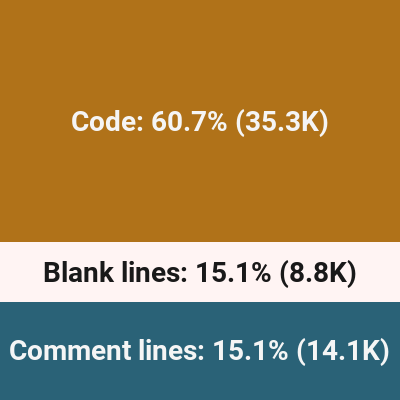
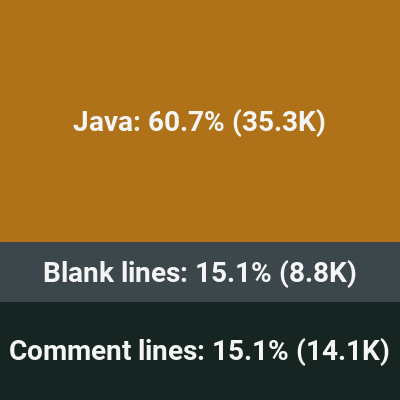
update stat_generator, remove svgs

diff --git a/actions/stat_generator.py b/actions/stat_generator.py
@@ -32,19 +32,19 @@ def export_stats(code_lines, comment_lines, blank_lines, width: str = 400, heigh
     image = cv2.rectangle(outlined_image, (border_thickness, border_thickness),
                           (width - border_thickness, code_height - border_thickness), code_color, -1)
 
-    comment_color = (243, 244, 255)
+    comment_color = (75, 71, 60)
     comment_height = int(height * (blank_percent / 100.0))
     image = cv2.rectangle(image, (border_thickness, code_height - border_thickness),
                           (width - border_thickness, code_height + comment_height), comment_color, -1)
 
-    blank_color = (119, 98, 42)
+    blank_color = (33, 37, 22)
     blank_height = int(height * (comment_percent / 100.0))
     image = cv2.rectangle(image, (border_thickness, code_height + comment_height - border_thickness),
                           (width - border_thickness, height), blank_color, -1)
 
     img_pil = Image.fromarray(image)
     draw = ImageDraw.Draw(img_pil)
-    code_string = "Code: " + str(code_percent) + \
+    code_string = "Java: " + str(code_percent) + \
         "% (" + get_compressed_number(code_lines) + ')'
     w, h = draw.textsize(code_string, font=export_font)
     code_area_center = (width / 2 - w / 2,
@@ -59,7 +59,7 @@ def export_stats(code_lines, comment_lines, blank_lines, width: str = 400, heigh
     blank_area_center = (width / 2 - w / 2,
                          border_thickness + code_height + comment_height / 2 - h / 2)
     draw.text(blank_area_center,  blank_string,
-              font=export_font, fill=(25, 25, 25))
+              font=export_font, fill=(245, 245, 245))
 
     draw = ImageDraw.Draw(img_pil)
     comment_string = "Comment lines: " + str(blank_percent) + \
@@ -79,7 +79,7 @@ def get_compressed_number(num: int) -> str:
     return str(round(num / 1000.0, 1)) + 'K'
 
 
-def export_code_comment_ratio_badge(alpha_string, beta_string, save_name):
+def export_string_badge(alpha_string, beta_string, save_name):
     primary = (131, 83, 5)
     secondary = (199, 147, 85)
 
@@ -232,13 +232,10 @@ if __name__ == '__main__':
         comment_lines = comment_lines + tuple[1]
         blank_lines = blank_lines + tuple[2]
 
-    ratio = code_lines / float(comment_lines)
-    last_updated = "2022-05-30 14:39"
-
     export_stats(code_lines=code_lines, comment_lines=comment_lines,
                  blank_lines=blank_lines, save_name="stats")
 
-    export_code_comment_ratio_badge(
-        "Code comment ratio", "{:.2f}".format(ratio), "code_comment")
-    export_code_comment_ratio_badge(
-        "Last updated", last_updated, "last_updated")
+    export_string_badge(
+        "Cyder", "A Programmer's Swiss Army Knife", "tagline")
+    export_string_badge(
+        "By", "Nate Cheshire", "author")

diff --git a/README.md b/README.md
@@ -1,9 +1,7 @@
 
 <img src="https://user-images.githubusercontent.com/60986919/171057466-8197f0c7-f908-4cb0-8978-deab86a79eac.png" alt="Logo" width="150">
 
-![](./static/svgs/Primary.svg)
 
-![](./static/svgs/Secondary.svg)
 
 ## What is Cyder
 
